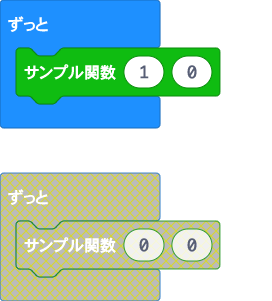
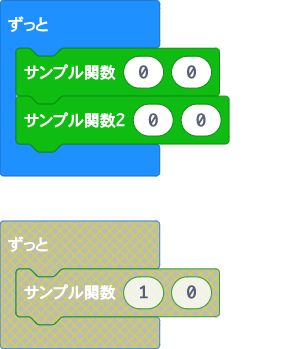
更新 pxt.json, main.blocks, main.ts, sandbox.ts, _locales/ja/pxt-microbit-sandbox-jsdoc-strings.json, _locales/ja/pxt-microbit-sandbox-strings.json

diff --git a/sandbox.ts b/sandbox.ts
@@ -6,8 +6,14 @@ namespace sandbox {
     /**
      * sample function
      */
-    //% block="sample $arg1 $arg2"
+    //% block="s %arg1 %arg2"
     export function sample(arg1: number, arg2: number) {
+        basic.showNumber(arg1)
+    }
+
+    //% block="s2 $arg1 $arg2"
+    //% subcategory="subcat"
+    export function sample2(arg1: number, arg2: number) {
         basic.showNumber(arg1)
     }
 

diff --git a/main.ts b/main.ts
@@ -1,3 +1,4 @@
 basic.forever(function () {
-    sandbox.sample(1, 0)
+    sandbox.sample(0, 0)
+    sandbox.sample2(0, 0)
 })
